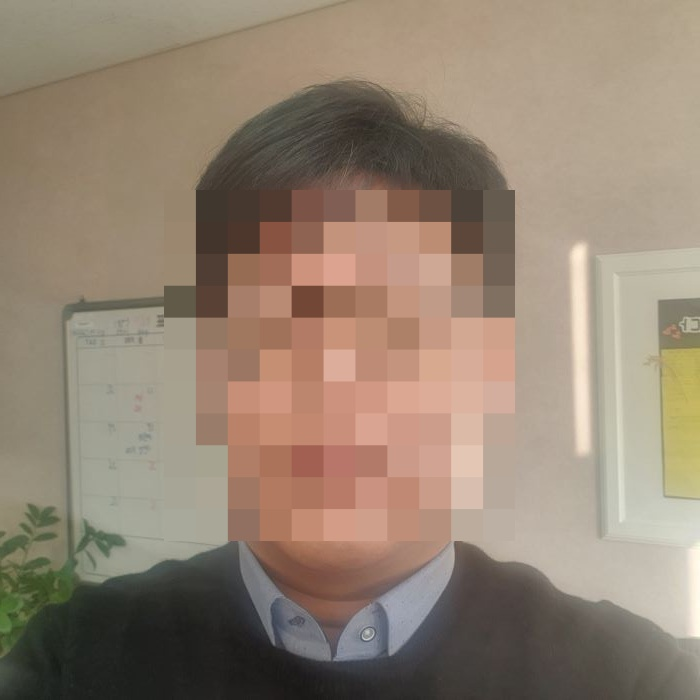
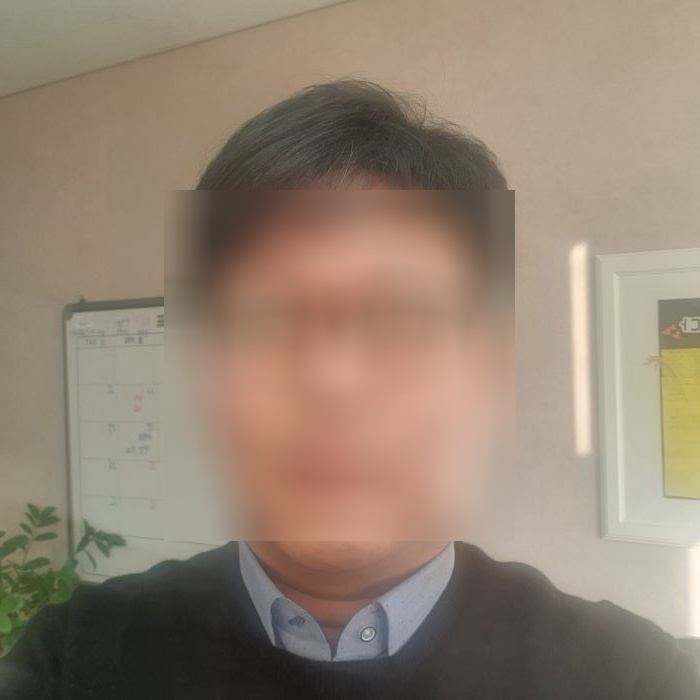
블러 기반 모자이크 및 스케치 예제 추가

diff --git a/01.FaceImage/image_face_blur.py b/01.FaceImage/image_face_blur.py
@@ -1,0 +1,59 @@
+# 설치한 OpenCV 패키지 불러오기
+import cv2
+
+# 분석하기 위한 이미지 불러오기
+image = cv2.imread("../image/my_face.jpg", cv2.IMREAD_COLOR)
+
+# 흑백사진으로 변경
+gray = cv2.cvtColor(image, cv2.COLOR_BGR2GRAY)
+
+# 변환한 흑백사진으로부터 히스토그램 평활화
+gray = cv2.equalizeHist(gray)
+
+if image is None: raise Exception("이미지 읽기 실패")
+
+# 학습된 얼굴 정면검출기 사용하기(OpenCV에 존재하는 파일)
+face_cascade = cv2.CascadeClassifier(cv2.data.haarcascades + "haarcascade_frontalface_alt2.xml")
+
+# 얼굴 검출 수행(정확도 높이는 방법의 아래 파라미터를 조절함)
+# 얼굴 검출은 히스토그램 평황화한 이미지 사용
+# scaleFactor : 1.1
+# minNeighbors : 인근 유사 픽셀 발견 비율이 2번 이상
+# flags : 0 => 더이상 사용하지 않는 인자값
+# 분석할 이미지의 최소 크기 : 가로 100, 세로 100
+faces = face_cascade.detectMultiScale(gray, 1.1, 2, 0, (100, 100))
+
+# 인식된 얼굴의 수
+facesCnt = len(faces)
+
+# 인식된 얼굴의 수 출력
+print(len(faces))
+
+# 얼굴이 검출되었다면,
+if facesCnt > 0:
+
+    # 검출된 얼굴의 수만큼 반복하여 실행함
+    for face in faces:
+        # 얼굴 위치 값을 가져오기
+        x, y, w, h = face
+
+        # 원본이미지로부터 얼굴영역 가져오기
+        face_image = image[y:y + h, x:x + w]
+
+        # 얼굴 영역의 픽셀을 가로, 세로 50px의 평균 값으로 블러 처리, 만약 얼굴영역의 픽셀크기가 50보다 작은 작게 설정
+        blur_face_image = cv2.blur(face_image, (50, 50))
+
+        # 원본이미지에 모자이크 처리한 얼굴 이미지 붙이기
+        image[y:y + h, x:x + w] = blur_face_image
+
+    # 모자이크 처리된 이미지 파일 생성하기
+    cv2.imwrite("../result/mosaic.jpg", image)
+
+    # 모자이크 처리된 이미지 보여주기
+    cv2.imshow("mosaic_image", cv2.imread("../result/mosaic.jpg", cv2.IMREAD_COLOR))
+
+else:
+    print("얼굴 미검출")
+
+# 입력받는 것 대기하기, 작성안하면, 결과창이 바로 닫힘
+cv2.waitKey(0)

diff --git a/04.Sketch/PencilSketch.py b/04.Sketch/PencilSketch.py
@@ -23,6 +23,7 @@ invertedBlur = cv2.bitwise_not(blur)
 # 스케치 효과를 주기 위해 흑백 사진과 블러 흑백 이미지를 나눈 뒤, 255를 곱함
 sketch = cv2.divide(gray, invertedBlur, scale=255)
 
+# 스케치 이미지 보여주기
 cv2.imshow("sketch", sketch)
 
 # 입력받는 것 대기하기, 작성안하면, 결과창이 바로 닫힘
